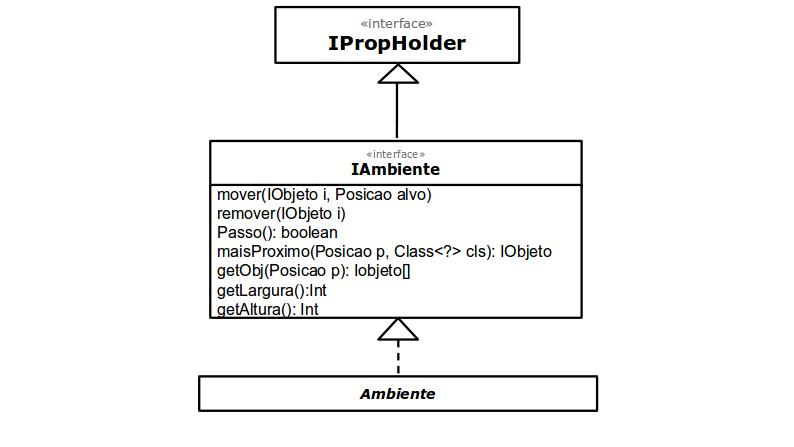
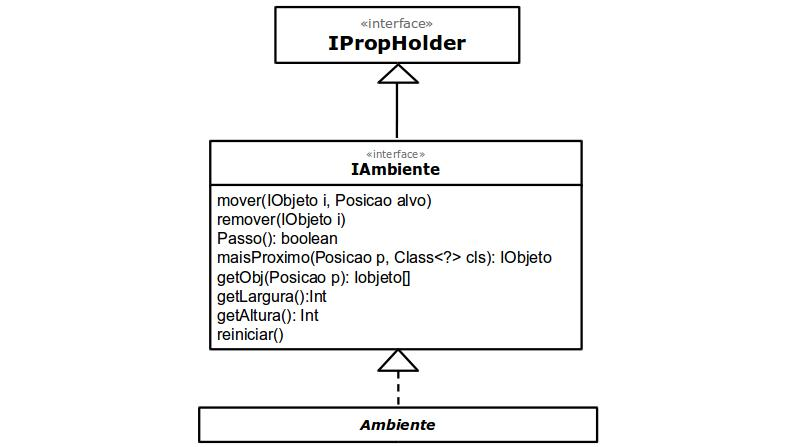
Atualiza documentação

Changed region(s): [[0.2418, 0.4072, 0.7557, 1.0]]

diff --git a/README.md b/README.md
@@ -51,6 +51,9 @@ public abstract class Prop {
 	public abstract void setValue(String x) throws ErroProp;
 }
 ~~~
+
+[Destaque](docs/img/Prop.jpg)
+
 ***
 # Destaques de Pattern
 
@@ -60,39 +63,42 @@ public abstract class Prop {
 
 ### Código do Pattern
 ~~~java
-// Recorte do código do pattern seguindo as mesmas diretrizes de outros destaques
-public void algoInteressante(…) {
-   …
-   trechoInteressante = 100;
+
+…
+
+public void setValue(String x) throws ErroProp {
+	try {
+		int y = Integer.parseInt(x);
+		if (y >= mMin && y <= mMax)
+			mVal = y;
+		else
+			throw new ErroPropForaDeAlcance("A propriedade deve estar entre " + mMin + " e " + mMax);
+	} catch (NumberFormatException e) {
+		throw new ErroPropTipoInvalido("A propriedade deve ser um inteiro");
+	}
 }
+
 ~~~
 
 > O Pattern em questão foi criado para padronizar as operações de acesso e modificação de dados no programa, podendo deixar essas operações acessiveis ao usuário
-
-## Observer Pattern
-![Observer Pattern](docs/img/ObserverPattern.jpg)
-
-### Código do Pattern
-~~~java
-// Recorte do código do pattern seguindo as mesmas diretrizes de outros destaques
-public void algoInteressante(…) {
-   …
-   trechoInteressante = 100;
-}
-~~~
-
-> O Pattern em questão foi criado para generalizar a ocorrência de ações durante a execução da simulação
 
 ## Composite Pattern
 ![Composite Pattern](docs/img/CompositePattern.jpg)
 
 ### Código do Pattern
 ~~~java
-// Recorte do código do pattern seguindo as mesmas diretrizes de outros destaques
-public void algoInteressante(…) {
-   …
-   trechoInteressante = 100;
-}
+
+…
+
+public void desenharCirculo(Posicao pos, double raio, Color cor) {
+	int r = (int) (raio * (double) mTamanhoCelula);
+
+	int x = pos.x * mTamanhoCelula + mTamanhoCelula / 2 + mDeltaX - r;
+	int y = pos.y * mTamanhoCelula + mTamanhoCelula / 2 + mDeltaY - r;
+
+	mGraphics.setColor(cor);
+	mGraphics.fillOval(x, y, 2 * r, 2 * r);
+	}
 ~~~
 
 > O Pattern em questão foi criado para generalizar a forma como as coisas serão apresentadas na tela do usuário
@@ -102,7 +108,7 @@ public void algoInteressante(…) {
 ***
 # Conclusões e Trabalhos Futuros
 
-> Pode-se dizer que os objetivos iniciais do projeto foram alcançados. Criamos uma simulação na qual é possível observar como características de um certo individuo podem influenciar nas relações com outros indíviduos no mesmo ecossistema simulado, baseando-se em competição por alimentos e disputas pelos mesmos alimentos. Para melhorias futuras no projeto, gostaríamos de adicinar modelos estatísticos à simulação, para ter à mão dados mais concretos sobre a influência de certas características no tamanho total da população do ambiente, adicionando opções como plotagem de gráficos e criação de tabelas.
+> Pode-se dizer que os objetivos iniciais do projeto foram alcançados. Criamos uma simulação na qual é possível observar como características de um certo individuo podem influenciar nas relações com outros indíviduos no mesmo ecossistema simulado, baseando-se em competição por alimentos e disputas pelos mesmos alimentos. Para melhorias futuras no projeto, gostaríamos de adicinar modelos estatísticos à simulação, para ter à mão dados mais concretos sobre a influência de certas características no tamanho total da população do ambiente, adicionando opções como plotagem de gráficos e criação de tabelas. Também poderíamos deixar a simulação mais complexa, implementando um sistema de características mais complexo, chance de mutação na reprodução e especiação. Além disso, podem ser criados outros tipos de Objetos, que podem ser obstáculos, por exemplo.
 
 ***
 # Diagramas
@@ -134,12 +140,10 @@ Interfaces associadas a esse componente:
 
 ![IDisplay](docs/img/IDisplay.jpg)
 
-Interface agregadora do componente em Java:
+Interface agregadora do componente:
 
-~~~java
-public interface IDisplay {
-}
-~~~
+[IDisplay](#interface-idisplay)
+
 ## Componente `Alimento`
 
 > Tipo de objeto que fornece energia para o indivíduo e que pode gerar uma disputa
@@ -161,10 +165,7 @@ Interfaces associadas a esse componente:
 
 Interface agregadora do componente em Java:
 
-~~~java
-public interface IAlimento extends IObjeto {
-}
-~~~
+[IAlimento](#interface-ialimento)
 
 ## Componente `Ambiente`
 
@@ -185,12 +186,9 @@ Interfaces associadas a esse componente:
 
 ![IAmbiente](docs/img/IAmbiente.jpg)
 
-Interface agregadora do componente em Java:
+Interface agregadora do componente:
 
-~~~java
-public interface IAmbiente extends IPropHolder {
-}
-~~~
+[IAmbiente](#interface-iambiente)
 
 ## Componente `Individuo`
 
@@ -203,7 +201,7 @@ item | detalhamento
 ----- | -----
 Classe | `com.github.gustavosr8.sssn.individuo`	
 Autores | Nicolas e Gustavo
-Interfaces | IIndividuo
+Interfaces | IIndividuo 
 
 ### Interfaces
 
@@ -211,12 +209,9 @@ Interfaces associadas a esse componente:
 
 ![IIndividuo](docs/img/IIndividuo.jpg)
 
-Interface agregadora do componente em Java:
+Interface agregadora do componente:
 
-~~~java
-public interface IIndividuo extends IReproducao, IComensal, IObjeto {
-}
-~~~
+[IIndividuo](#interface-iindividuo)
 
 ## Componentes `DisputaAgressivo / DisputaAltruista`
 
@@ -239,10 +234,7 @@ Interfaces associadas a esse componente:
 
 Interface agregadora do componente em Java:
 
-~~~java
-public interface IDisputa{
-}
-~~~
+[IDisputa](#interface-idisputa)
 ***
 ## Detalhamento das Interfaces
 
@@ -391,20 +383,21 @@ Método | Objetivo
 -------| --------
 `getGene` | `Retorna o gene do ser que solicita a repordução`
 `escolherParceiro` | `Escolhe um entre uma lista de possiveis parceiros, e retorna o seu indice na lista`
-'aoReproduzir' | `Rotinas realizadas ao reproduzir, retornando o gene do ser resultante`
+`aoReproduzir` | `Rotinas realizadas ao reproduzir, retornando o gene do ser resultante`
 
 ### Interface `IIndividuo`
 
 `Tipo de objeto que tem as caracteristicas de um ser comensal e que pode se reproduzir`
 
 ~~~java	
-public interface IIndividuo extends IObjeto, IComensal, IReproducao{
-   
+public interface IIndividuo extends IObjeto, IComensal, IReproducao {
+	public double getEnergia();
 }
 ~~~
 
-> Nota-se que o IIndividuo não possui metodos próprios, porém une os metodos de IObjeto, IComensal e IReproducao
-
+Método | Objetivo
+-------| --------
+`getEnergia` | `Retorna a energia atual do individuo`
 
 ### Interface `IAmbiente`
 
@@ -416,15 +409,14 @@ public interface IAmbiente extends IPropHolder {
     public void mover(IObjeto i, Posicao alvo);
     public void remover(IObjeto i);
     
-    // Retorna o objeto de tipo cls mais próximo de p.
     public IObjeto maisProximo(Posicao p, Class<?> cls);
-    // true se a rodada terminou com este passo.
     public boolean passo();
-    // Retorna os objetos em dada posição
     public IObjeto[] getObj(Posicao p);
     
     public int getAltura();
     public int getLargura();
+
+    public void reiniciar();
 
 }
 ~~~
@@ -438,6 +430,7 @@ Método | Objetivo
 `getObj` | `Retorna os objetos em uma dada posição`
 `getAltura` | `Retorna a altura do ambiente`
 `getLargura` | `Retorna a largura de um ambiente`
+`reiniciar` | `Reinicia a simulação`
 ***
 
 # Tratamento de Erros
